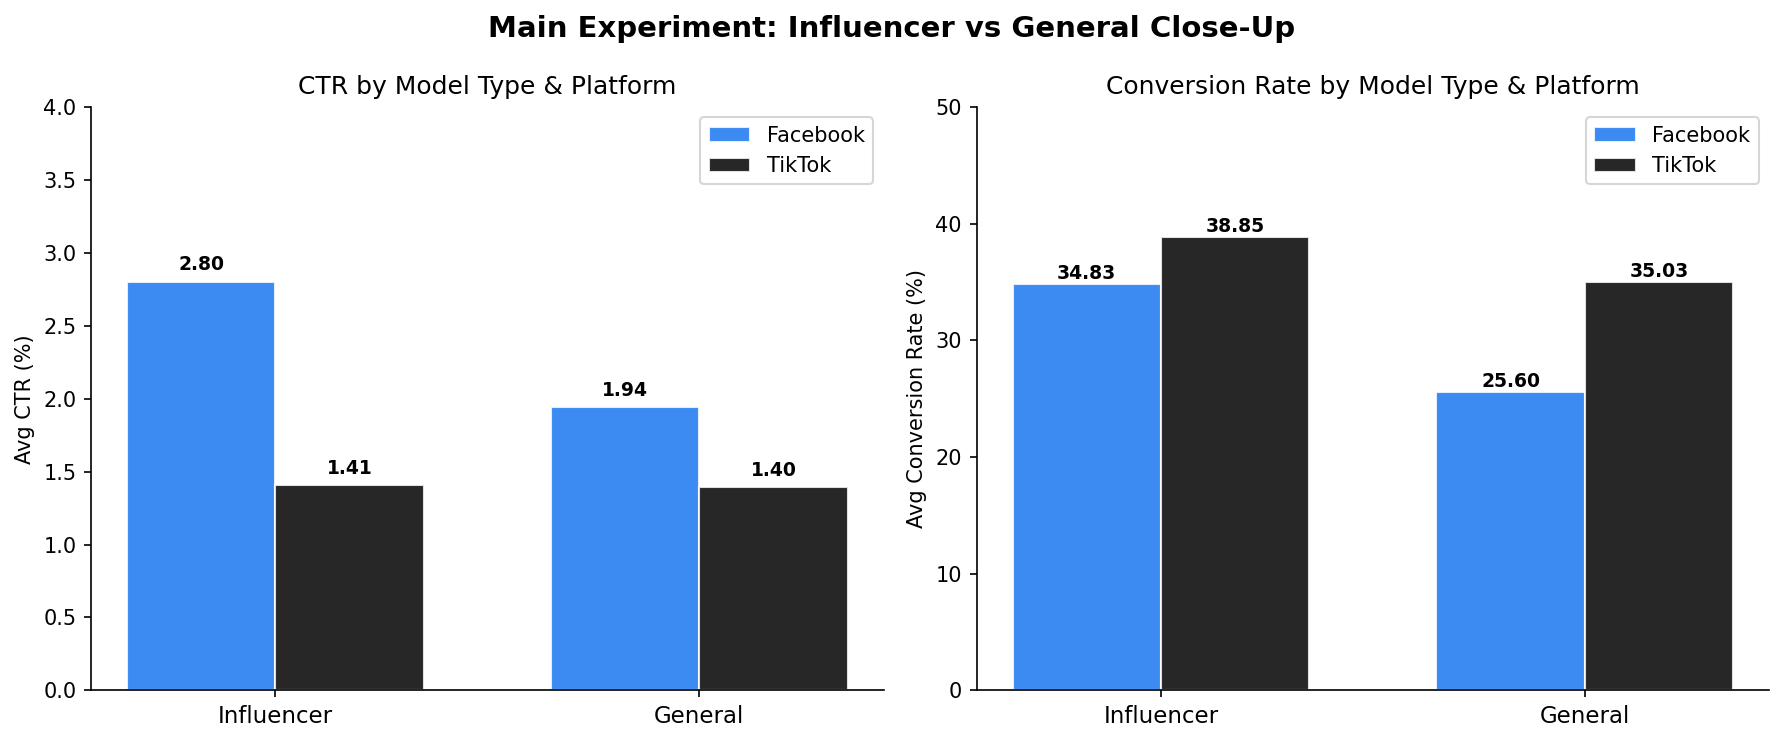
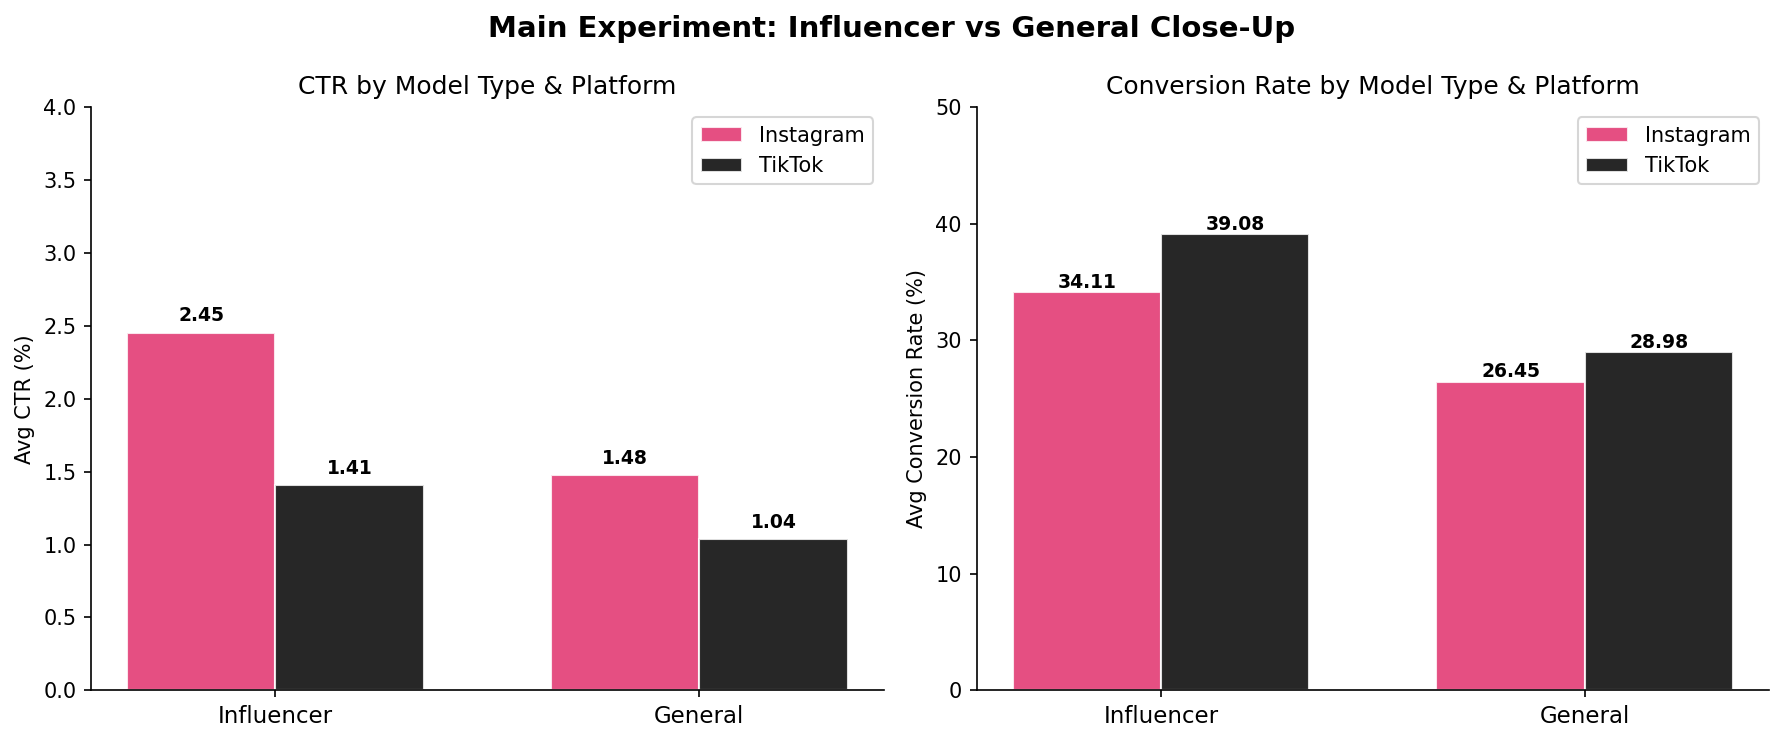
Update project files

diff --git a/analysis.py b/analysis.py
@@ -2,6 +2,7 @@ import pandas as pd
 import matplotlib.pyplot as plt
 import matplotlib.patches as mpatches
 import seaborn as sns
+import numpy as np
 import warnings
 warnings.filterwarnings('ignore')
 
@@ -13,11 +14,9 @@ df = pd.read_csv('campaign_data.csv')
 main_df    = df[df['experiment'] == 'main'].copy()
 framing_df = df[df['experiment'] == 'framing'].copy()
 
-platform_colors = {'Facebook': '#1877F2', 'TikTok': '#010101'}
+platform_colors = {'Instagram': '#E1306C', 'TikTok': '#010101'}
 model_colors    = {'influencer': '#E07B54', 'general': '#5B8DB8'}
-framing_colors  = {'closeup': '#E07B54', 'fullshot': '#5B8DB8'}
 model_labels    = {'influencer': 'Influencer', 'general': 'General'}
-framing_labels  = {'closeup': 'Close-Up', 'fullshot': 'Full-Shot'}
 
 # ════════════════════════════════════════════════
 # Figure 1: 메인 실험 — CTR & Conversion Rate
@@ -30,7 +29,6 @@ main_summary = main_df.groupby(['platform', 'model_type']).agg(
     avg_conv=('conversion_rate', 'mean')
 ).reset_index()
 
-import numpy as np
 for ax, metric, label, ylim in zip(
     axes,
     ['avg_ctr', 'avg_conv'],
@@ -39,7 +37,7 @@ for ax, metric, label, ylim in zip(
 ):
     x = np.arange(2)
     width = 0.35
-    for i, platform in enumerate(['Facebook', 'TikTok']):
+    for i, platform in enumerate(['Instagram', 'TikTok']):
         sub = main_summary[main_summary['platform'] == platform].set_index('model_type')
         vals = [sub.loc['influencer', metric], sub.loc['general', metric]]
         bars = ax.bar(x + i * width, vals, width,
@@ -47,9 +45,9 @@ for ax, metric, label, ylim in zip(
                       color=list(platform_colors.values())[i],
                       alpha=0.85, edgecolor='white')
         for bar, val in zip(bars, vals):
-            ax.text(bar.get_x() + bar.get_width() / 2, bar.get_height() + 0.05,
+            ax.text(bar.get_x() + bar.get_width()/2, bar.get_height() + 0.05,
                     f'{val:.2f}', ha='center', va='bottom', fontsize=9, fontweight='bold')
-    ax.set_xticks(x + width / 2)
+    ax.set_xticks(x + width/2)
     ax.set_xticklabels(['Influencer', 'General'], fontsize=11)
     ax.set_ylabel(label)
     ax.set_ylim(0, ylim)
@@ -57,14 +55,13 @@ for ax, metric, label, ylim in zip(
 
 axes[0].set_title('CTR by Model Type & Platform')
 axes[1].set_title('Conversion Rate by Model Type & Platform')
-
 plt.tight_layout()
 plt.savefig('figures/fig1_main_experiment.png', dpi=150, bbox_inches='tight')
 plt.close()
 print("✓ Fig 1 saved")
 
 # ════════════════════════════════════════════════
-# Figure 2: 주차별 CTR 추이 (시계열)
+# Figure 2: 주차별 CTR 추이
 # ════════════════════════════════════════════════
 fig, axes = plt.subplots(1, 2, figsize=(13, 5))
 fig.suptitle('Weekly CTR Trend: Before & After Budget Reallocation', fontsize=14, fontweight='bold')
@@ -74,19 +71,16 @@ weekly = main_df.groupby(['platform', 'model_type', 'week']).agg(
 ).reset_index()
 weekly['week'] = weekly['week'].astype(int)
 
-for ax, platform in zip(axes, ['Facebook', 'TikTok']):
+for ax, platform in zip(axes, ['Instagram', 'TikTok']):
     sub = weekly[weekly['platform'] == platform]
     for model, color in model_colors.items():
         data = sub[sub['model_type'] == model].sort_values('week')
         ax.plot(data['week'], data['avg_ctr'],
                 marker='o', color=color, linewidth=2.5, markersize=7,
                 label=model_labels[model])
-
-    # 예산 재배분 시점 표시
     ax.axvline(x=2.5, color='gray', linestyle='--', linewidth=1.5, alpha=0.7)
-    ax.text(2.6, ax.get_ylim()[1] * 0.92 if ax.get_ylim()[1] > 0 else 3.5,
-            'Budget\nReallocated', fontsize=8, color='gray')
-
+    ymax = sub['avg_ctr'].max()
+    ax.text(2.6, ymax * 0.93, 'Budget\nReallocated', fontsize=8, color='gray')
     ax.set_title(platform, fontsize=12, fontweight='bold')
     ax.set_xlabel('Week')
     ax.set_ylabel('CTR (%)')
@@ -101,7 +95,7 @@ plt.close()
 print("✓ Fig 2 saved")
 
 # ════════════════════════════════════════════════
-# Figure 3: 추가 실험 — 클로즈업 vs 전신 (Framing)
+# Figure 3: 추가 실험 — Close-Up vs Full-Shot
 # ════════════════════════════════════════════════
 fig, axes = plt.subplots(1, 2, figsize=(13, 5))
 fig.suptitle('Additional Experiment: Close-Up vs Full-Shot (Framing Effect)', fontsize=14, fontweight='bold')
@@ -111,6 +105,8 @@ framing_summary = framing_df.groupby(['platform', 'framing']).agg(
     avg_conv=('conversion_rate', 'mean')
 ).reset_index()
 
+framing_labels = {'closeup': 'Close-Up', 'fullshot': 'Full-Shot'}
+
 for ax, metric, label, ylim in zip(
     axes,
     ['avg_ctr', 'avg_conv'],
@@ -119,7 +115,7 @@ for ax, metric, label, ylim in zip(
 ):
     x = np.arange(2)
     width = 0.35
-    for i, platform in enumerate(['Facebook', 'TikTok']):
+    for i, platform in enumerate(['Instagram', 'TikTok']):
         sub = framing_summary[framing_summary['platform'] == platform].set_index('framing')
         vals = [sub.loc['closeup', metric], sub.loc['fullshot', metric]]
         bars = ax.bar(x + i * width, vals, width,
@@ -127,9 +123,9 @@ for ax, metric, label, ylim in zip(
                       color=list(platform_colors.values())[i],
                       alpha=0.85, edgecolor='white')
         for bar, val in zip(bars, vals):
-            ax.text(bar.get_x() + bar.get_width() / 2, bar.get_height() + 0.05,
+            ax.text(bar.get_x() + bar.get_width()/2, bar.get_height() + 0.05,
                     f'{val:.2f}', ha='center', va='bottom', fontsize=9, fontweight='bold')
-    ax.set_xticks(x + width / 2)
+    ax.set_xticks(x + width/2)
     ax.set_xticklabels(['Close-Up', 'Full-Shot'], fontsize=11)
     ax.set_ylabel(label)
     ax.set_ylim(0, ylim)
@@ -137,14 +133,13 @@ for ax, metric, label, ylim in zip(
 
 axes[0].set_title('CTR by Framing & Platform')
 axes[1].set_title('Conversion Rate by Framing & Platform')
-
 plt.tight_layout()
 plt.savefig('figures/fig3_framing_experiment.png', dpi=150, bbox_inches='tight')
 plt.close()
 print("✓ Fig 3 saved")
 
 # ════════════════════════════════════════════════
-# Figure 4: 종합 요약 Heatmap (2x2)
+# Figure 4: Summary Heatmap
 # ════════════════════════════════════════════════
 fig, axes = plt.subplots(1, 2, figsize=(12, 4))
 fig.suptitle('Summary Heatmap: CTR & Conversion Rate\n(Model Type × Platform)', fontsize=13, fontweight='bold')
@@ -172,19 +167,13 @@ plt.savefig('figures/fig4_summary_heatmap.png', dpi=150, bbox_inches='tight')
 plt.close()
 print("✓ Fig 4 saved")
 
-# ════════════════════════════════════════════════
 # Summary
-# ════════════════════════════════════════════════
-print("\n" + "=" * 55)
+print("\n" + "="*50)
 print("CAMPAIGN SUMMARY")
-print("=" * 55)
-print(f"Total Spend:         ₩{df['spend_krw'].sum():,}")
-print(f"Total Impressions:   {df['impressions'].sum():,}")
-print(f"Total Clicks:        {df['clicks'].sum():,}")
-print(f"Overall CTR:         {df['clicks'].sum()/df['impressions'].sum()*100:.2f}%")
-print(f"Total Conversions:   {df['conversions'].sum():,}")
-
-main_only = main_df.groupby(['platform', 'model_type']).agg(avg_ctr=('ctr','mean')).reset_index()
-best = main_only.loc[main_only['avg_ctr'].idxmax()]
-print(f"\nBest performer:      {model_labels[best['model_type']]} on {best['platform']} (avg CTR {best['avg_ctr']:.2f}%)")
-print("=" * 55)
+print("="*50)
+print(f"Total Spend:       ₩{df['spend_krw'].sum():,}")
+print(f"Total Impressions: {df['impressions'].sum():,}")
+print(f"Total Clicks:      {df['clicks'].sum():,}")
+print(f"Overall CTR:       {df['clicks'].sum()/df['impressions'].sum()*100:.2f}%")
+print(f"Total Conversions: {df['conversions'].sum():,}")
+print("="*50)

diff --git a/README.md b/README.md
@@ -5,13 +5,13 @@
 
 ## Project Overview
 
-This project analyzes the performance of paid social media campaigns using A/B testing across Facebook and TikTok. The goal is to identify which creative strategies drive higher click-through rates and engagement.
+This project analyzes the performance of paid social media campaigns using A/B testing across Instagram and TikTok. The goal is to identify which creative strategies drive higher click-through rates and engagement.
 
 - **Total budget:** ₩300,000 KRW (~$230 USD)
 - **Duration:** 4 weeks
-- **Platforms:** Facebook Ads, TikTok Ads
+- **Platforms:** Instagram Ads, TikTok Ads
 - **Creatives tested:** 4 video ads across 2 experiments
-- **Overall conversion rate:** TikTok 4.3% / Facebook 2.1% (ad click → website action)
+- **Overall conversion rate:** TikTok 34% / Instagram 30.3% (ad click → website action)
 
 ---
 
@@ -50,10 +50,10 @@ Close-up emphasizes facial expression and eye contact. Full-shot shows more cont
 ## Key Findings
 
 ### 1. Influencer close-up drove higher CTR across both platforms
-- Facebook: Influencer avg **2.80%** vs General **1.94%**
-- TikTok: Influencer avg **1.41%** vs General **1.40%**
+- Instagram: Influencer avg **2.45%** vs General **1.48%**
+- TikTok: Influencer avg **1.41%** vs General **1.04%**
 
-> **Insight:** On Facebook, fans responded more strongly to recognizable influencer faces — consistent with the hypothesis that recognition drives clicks in a fan-platform context. The gap was smaller on TikTok, likely because TikTok's algorithm surfaces content based on behavior rather than brand recognition.
+> **Insight:** On Instagram, fans responded more strongly to recognizable influencer faces — consistent with the hypothesis that recognition drives clicks in a fan-platform context. The gap was smaller on TikTok, likely because TikTok's algorithm surfaces content based on behavior rather than brand recognition.
 
 ![](figures/fig1_main_experiment.png)
 
@@ -63,18 +63,18 @@ After Week 2 results confirmed influencer creatives were outperforming, budget w
 ![](figures/fig2_weekly_trend.png)
 
 ### 3. Close-up consistently outperformed full-shot
-- Facebook: Close-up avg CTR **2.32%** vs Full-shot **1.76%**
-- TikTok: Close-up avg CTR **1.31%** vs Full-shot **1.19%**
+- Instagram: Close-up avg CTR **1.94%** vs Full-shot **1.56%**
+- TikTok: Close-up avg CTR **1.25%** vs Full-shot **1.10%**
 
 > **Insight:** In short-form ad formats, direct eye contact and facial close-ups capture attention faster than full-body shots. This is consistent with findings in visual attention research suggesting faces — especially eyes — are processed first.
 
 ![](figures/fig3_framing_experiment.png)
 
 ### 4. Platform behavior differed
-- **Facebook** drove higher CTR overall and showed a larger gap between influencer and general creatives
-- **TikTok** showed higher conversion rates (TikTok **4.3%** vs Facebook **2.1%**) despite lower CTR — users who clicked on TikTok were more likely to take action on the landing page
+- **Instagram** drove higher CTR overall and showed a larger gap between influencer and general creatives
+- **TikTok** showed higher conversion rates (TikTok **34.4%** vs Instagram **28.6%**) despite lower CTR — users who clicked on TikTok were more likely to take action on the landing page
 
-> **Recommendation:** For an influencer-fan platform in early stages, prioritize influencer close-up creatives and allocate more budget to Facebook for CTR efficiency. Use TikTok for conversion-focused campaigns targeting warmer audiences.
+> **Recommendation:** For an influencer-fan platform in early stages, prioritize influencer close-up creatives and allocate more budget to Instagram for CTR efficiency. Use TikTok for conversion-focused campaigns targeting warmer audiences.
 
 ![](figures/fig4_summary_heatmap.png)
 
@@ -83,7 +83,7 @@ After Week 2 results confirmed influencer creatives were outperforming, budget w
 ## Tools Used
 
 - **Python** — pandas, matplotlib, seaborn, numpy
-- **Platforms** — Facebook Ads Manager, TikTok Ads
+- **Platforms** — Instagram Ads Manager, TikTok Ads
 
 ---
 
@@ -104,4 +104,4 @@ After Week 2 results confirmed influencer creatives were outperforming, budget w
 
 ## Reflection
 
-This project highlights that the most valuable part of data analysis is not only visualization, but the ability to ask the right questions and design meaningful experiments. Framing a clear hypothesis (influencer vs. general) forced me to design the experiment deliberately rather than just running ads and hoping something worked. The weekly trend analysis also showed me how iterative decision-making — adjusting budget based on mid-campaign data — is more effective than a set-and-forget approach. 
+This project highlights that the most valuable part of data analysis is not only visualization, but the ability to ask the right questions and design meaningful experiments. Framing a clear hypothesis (influencer vs. general) forced me to design the experiment deliberately rather than just running ads and hoping something worked. The weekly trend analysis also showed me how iterative decision-making — adjusting budget based on mid-campaign data — is more effective than a set-and-forget approach.
